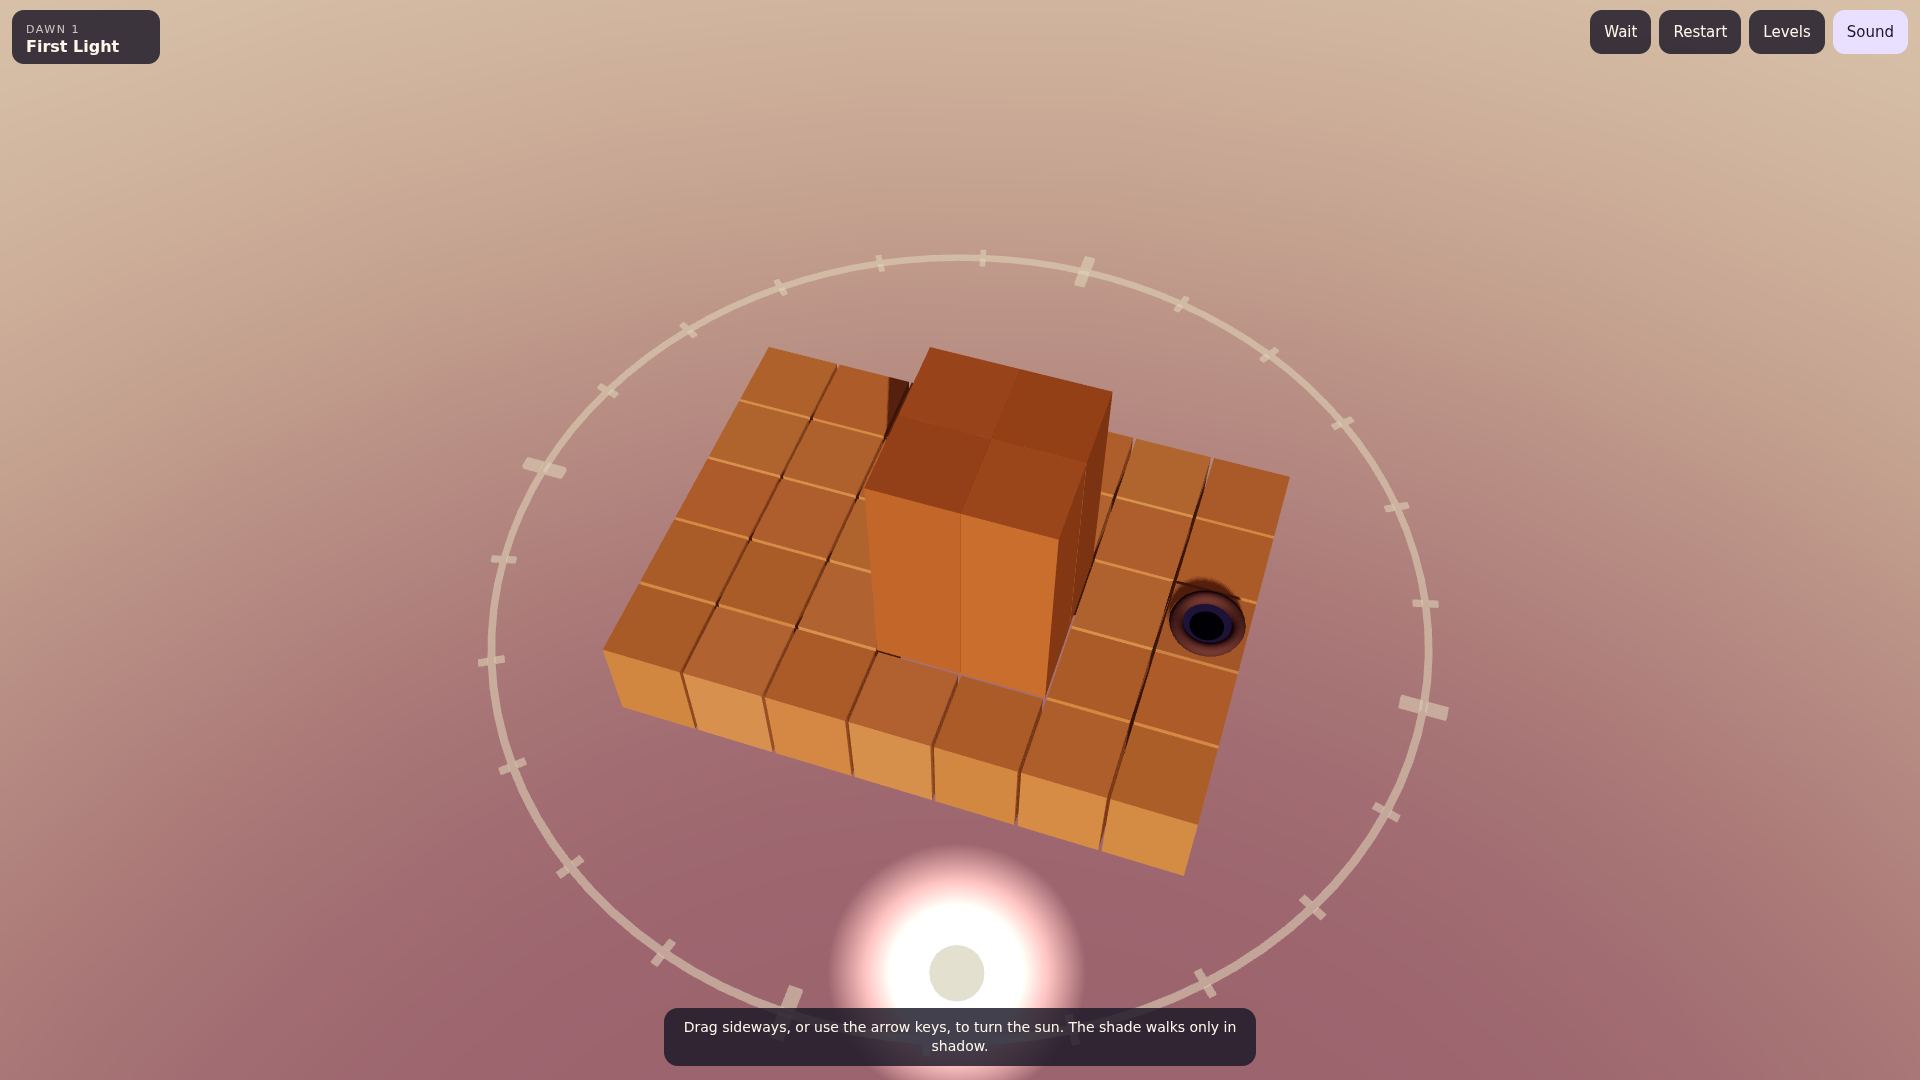
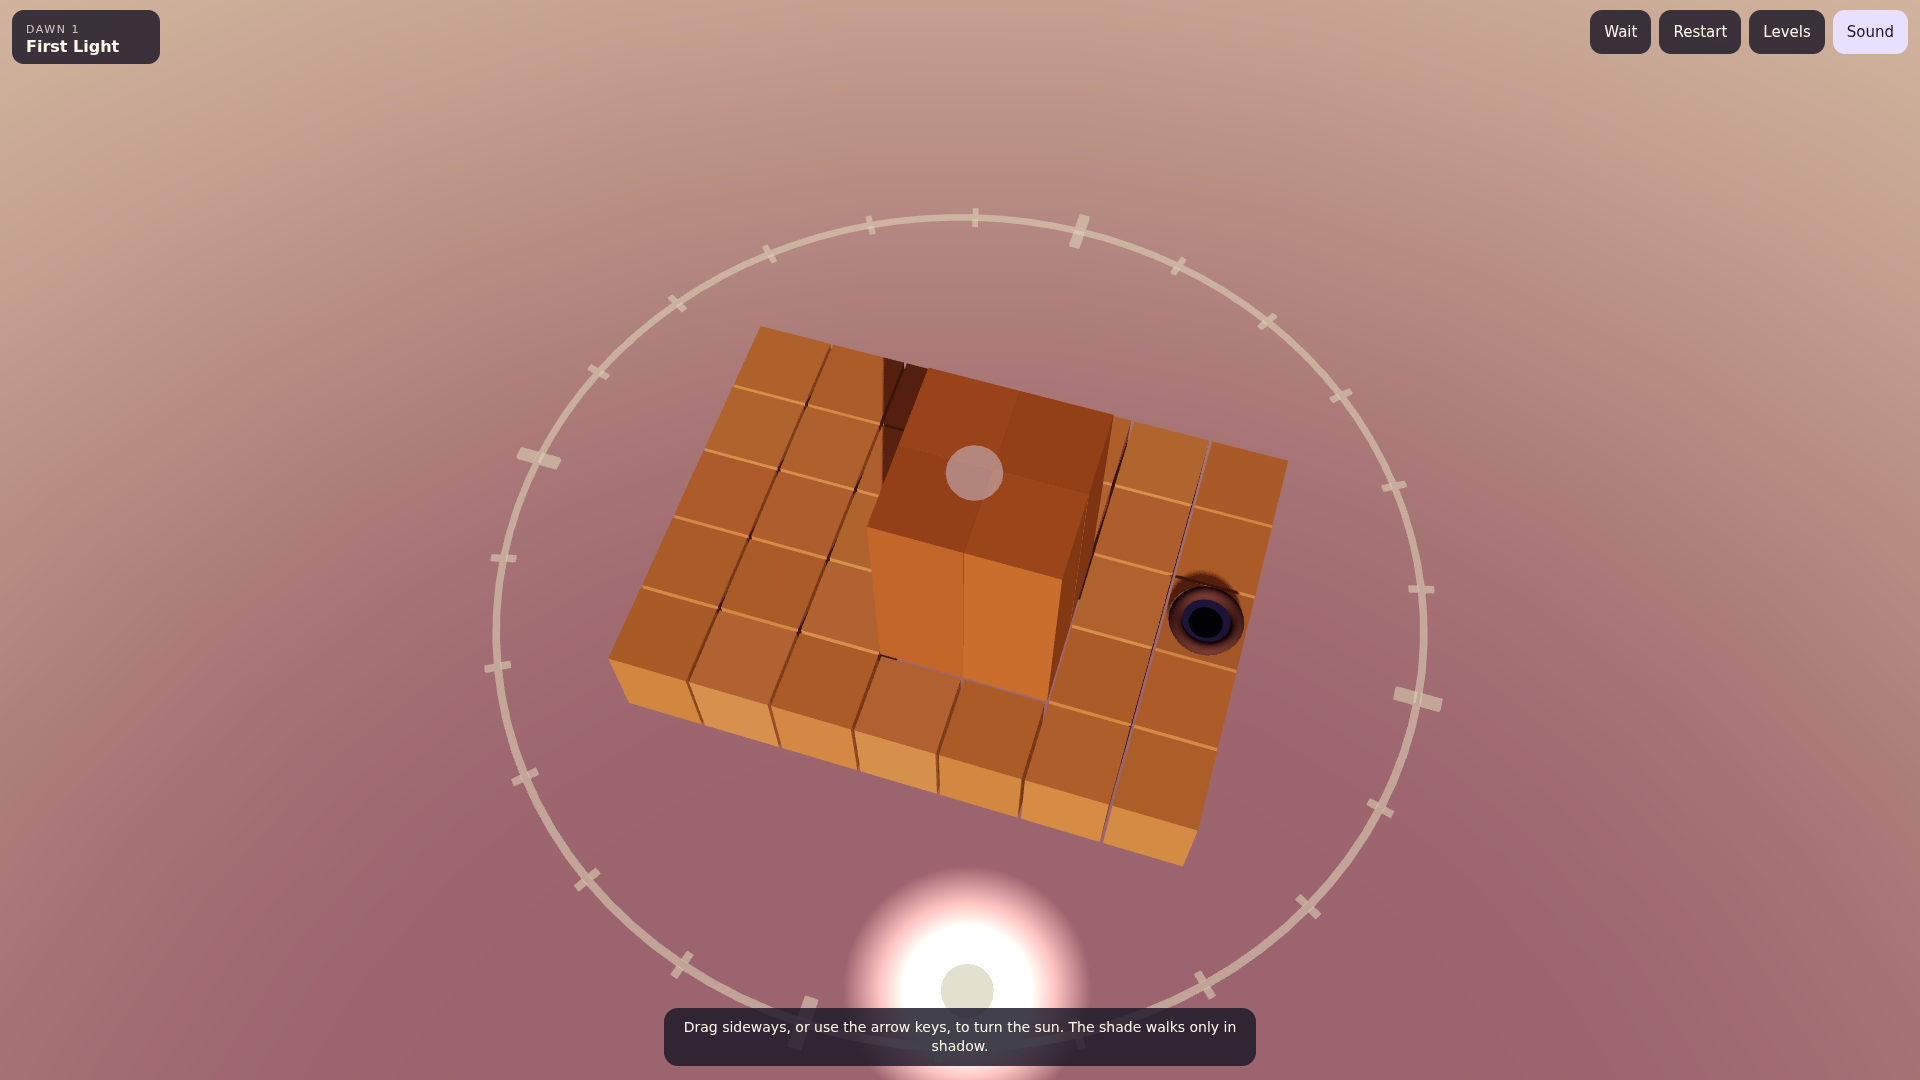
Docs: AGENTS.md for this layout, TRIAL.md media notes

diff --git a/src/render.js b/src/render.js
@@ -248,8 +248,10 @@ export class View {
     eyeL.position.set(-0.1, 0.33, 0.25);
     eyeR.position.set(0.1, 0.33, 0.25);
     shade.add(body, eyeL, eyeR);
-    // A faint silhouette that only draws where a pillar hides the shade.
-    const ghost = new THREE.Mesh(new THREE.SphereGeometry(0.3, 20, 14), new THREE.MeshBasicMaterial({ color: 0xcdbdf0, transparent: true, opacity: 0.5, depthFunc: THREE.GreaterDepth, depthWrite: false }));
+    // A faint silhouette that only draws where a pillar hides the shade: it
+    // passes a greater-depth test only behind something nearer, and it's a
+    // little bigger than the body so the body itself never counts.
+    const ghost = new THREE.Mesh(new THREE.SphereGeometry(0.35, 20, 14), new THREE.MeshBasicMaterial({ color: 0xcdbdf0, transparent: true, opacity: 0.5, depthFunc: THREE.GreaterDepth, depthWrite: false }));
     ghost.scale.set(1, 0.85, 1);
     ghost.position.y = 0.28;
     ghost.renderOrder = 20;

diff --git a/AGENTS.md b/AGENTS.md
@@ -22,20 +22,30 @@ Read the page that covers what you're changing, every time, rather than relying 
 
 | Path                 | Contains                                                                                                           |
 | -------------------- | ------------------------------------------------------------------------------------------------------------------ |
-| `arcadible.toml`     | The game's id, version, and settings. Never change `id`. If it's missing, `arc init` adds one without scaffolding. |
+| `arcadible.toml`     | The game's id, handle, and settings. Never change `id`. The version comes from `package.json`.                     |
+| `package.json`       | `version` (bump before every deploy) and the `build` script that `arc` runs.                                       |
 | `README.md`          | The store page: the title, tagline, bio, and the description between the first and last `---`.                     |
-| `.arcadible/`        | The store art, with fixed file names.                                                                              |
-| `.arcadible-public/` | The game players load (`workflow.deploy_dir`), with `index.html` at its root. There's no build.                    |
+| `.arcadible/`        | The store art and videos, with fixed file names, all rendered from the game by `tools/capture.mjs`.                |
+| `src/`               | The game: `core.js` (logic, no DOM), `levels.js`, `render.js` (three.js), `ui.js`, `audio.js`, `saves.js`, `main.js`. |
+| `public/`            | `index.html` with the inline loading screen and the hosted SDK script tag.                                         |
+| `dist/`              | The build (`workflow.deploy_dir`), written by `npm run build`, not committed.                                       |
+| `tools/`             | `build.mjs`, `solve.mjs` (proves levels solvable), `autoplay.mjs` (plays them for real), `capture.mjs` (media).    |
 
 ## Commands
 
 ```sh
-arc serve                     # run the game locally, as Arcadible does, reloading as you edit
+npm run build                 # bundle src/ into dist/ (arc deploy and arc serve run this too)
+npm run solve                 # every level must print ok
+node tools/autoplay.mjs --dew # beam search in the real simulation; writes tools/plays.json
+node tools/capture.mjs smoke  # plays every level in headless Chromium and checks it wins
+node tools/capture.mjs shots  # screenshots and store art into .arcadible/
+node tools/capture.mjs videos # store videos (needs chromium and ffmpeg)
+arc serve                     # run the game locally, as Arcadible does
 arc validate                  # the checks arc deploy runs, with a link to each broken rule
-arc deploy                    # validate, pack, publish, and wait until it's published
+arc deploy                    # validate, build, pack, publish, and wait until it's published
 ```
 
-Every `arc` command is in https://developer.arcadible.com/references/arcadible-cli.md. Add `--json` to read a command's result as one JSON document on stdout. A command that fails exits with 1, and its JSON has `error.code`: act on the code, and look it up in https://developer.arcadible.com/references/errors.md, which says what to do.
+After changing a level, run `solve`, `autoplay`, and `smoke` before deploying: the capture tool's plays come from `tools/plays.json`.
 
 ## What doesn't change
 

diff --git a/TRIAL.md b/TRIAL.md
@@ -40,3 +40,12 @@ A running log of making an original 3D game with stages and saved progress, publ
   - `tools/autoplay.mjs`: a beam search over sun moves in the actual simulation (the real auto-walker, heat, timing), which proved every level can be beaten, with all of its dew, by turning the sun alone. Its winning scripts drive the screenshots and videos, so the store media are genuine, successful plays.
 - **The auto-walker's rule.** The first version only walked when a complete shadow path to the well existed, so in level 1 it just sat while the shadow swept past. Now it goes for reachable dew, then the well, and otherwise to the reachable shadowed cell nearest the well (or the nearest shadow when it's standing in light). That made the "follow the sweeping shadow" puzzles work.
 - **`ai = "generative"`.** Code-drawn art doesn't count under Arcadible's definition, but the text players read was written by a model, so I disclosed.
+
+## 5. Store media, all from the running game
+
+- `tools/capture.mjs` serves `dist/` on a local port, opens it in headless Chromium through puppeteer-core, switches the game to a manual clock (`__gnomon.setManual(true)` and `__gnomon.frame(dt)`), and then either screenshots a state or renders frames at 30 fps and hands them to ffmpeg (libx264, yuv420p, faststart). Every PNG and MP4 in `.arcadible/` is therefore the real renderer, driven by the real game, with the real HUD in the gameplay shots.
+- The gameplay videos are the autoplayer's winning scripts replayed in the browser. To make that deterministic, the one-second intro before each play renders frames with `dt = 0`, so the simulation starts in exactly the state the autoplayer started from. My first attempt let the intro advance the game, and 4 of 15 replays diverged (the shade had already walked before the first turn). With the frozen intro, all 15 win in the browser, the same as in Node.
+- Camera: at the first camera pitch (53 degrees), a sun standing near the camera threw every shadow behind its pillar, where the player couldn't see the shade. I steepened the camera (60 degrees) and added a faint silhouette of the shade that draws only where a pillar hides it (a `GreaterDepth` test on a sphere slightly larger than the body, so the body itself never triggers it; the first version, same size as the body, drew a moiré over the shade and showed up in the icon).
+- Art: `splash` is the attract dial with no text, `cover`, `banner`, and `poster` carry only the title (allowed), the `icon` is a close-up of the shade in a pillar's shadow with no text. Each has a `_video.mp4` companion of the same size: the sun crossing the dial (about 10 seconds; 7 for the icon, which rocks the sun so the shade stays in shadow). Gallery: `screenshot_01` and `_03` to `_07` are PNGs from levels 1, 15, 6, 11, 10, and the level list; `screenshot_02.mp4` is three levels played to completion; `evening-walk.mp4` (the finale played through) is embedded in the description; two `_phone` screenshots are taken at a 19.5:9 landscape viewport with a device pixel ratio of 2.
+- The banner's first composition put the title over the island; I moved the camera target so the island sits to the right.
+- `pkill -f capture.mjs` killed my own shell, exactly as the Lampward log warned. I did it anyway, once.
